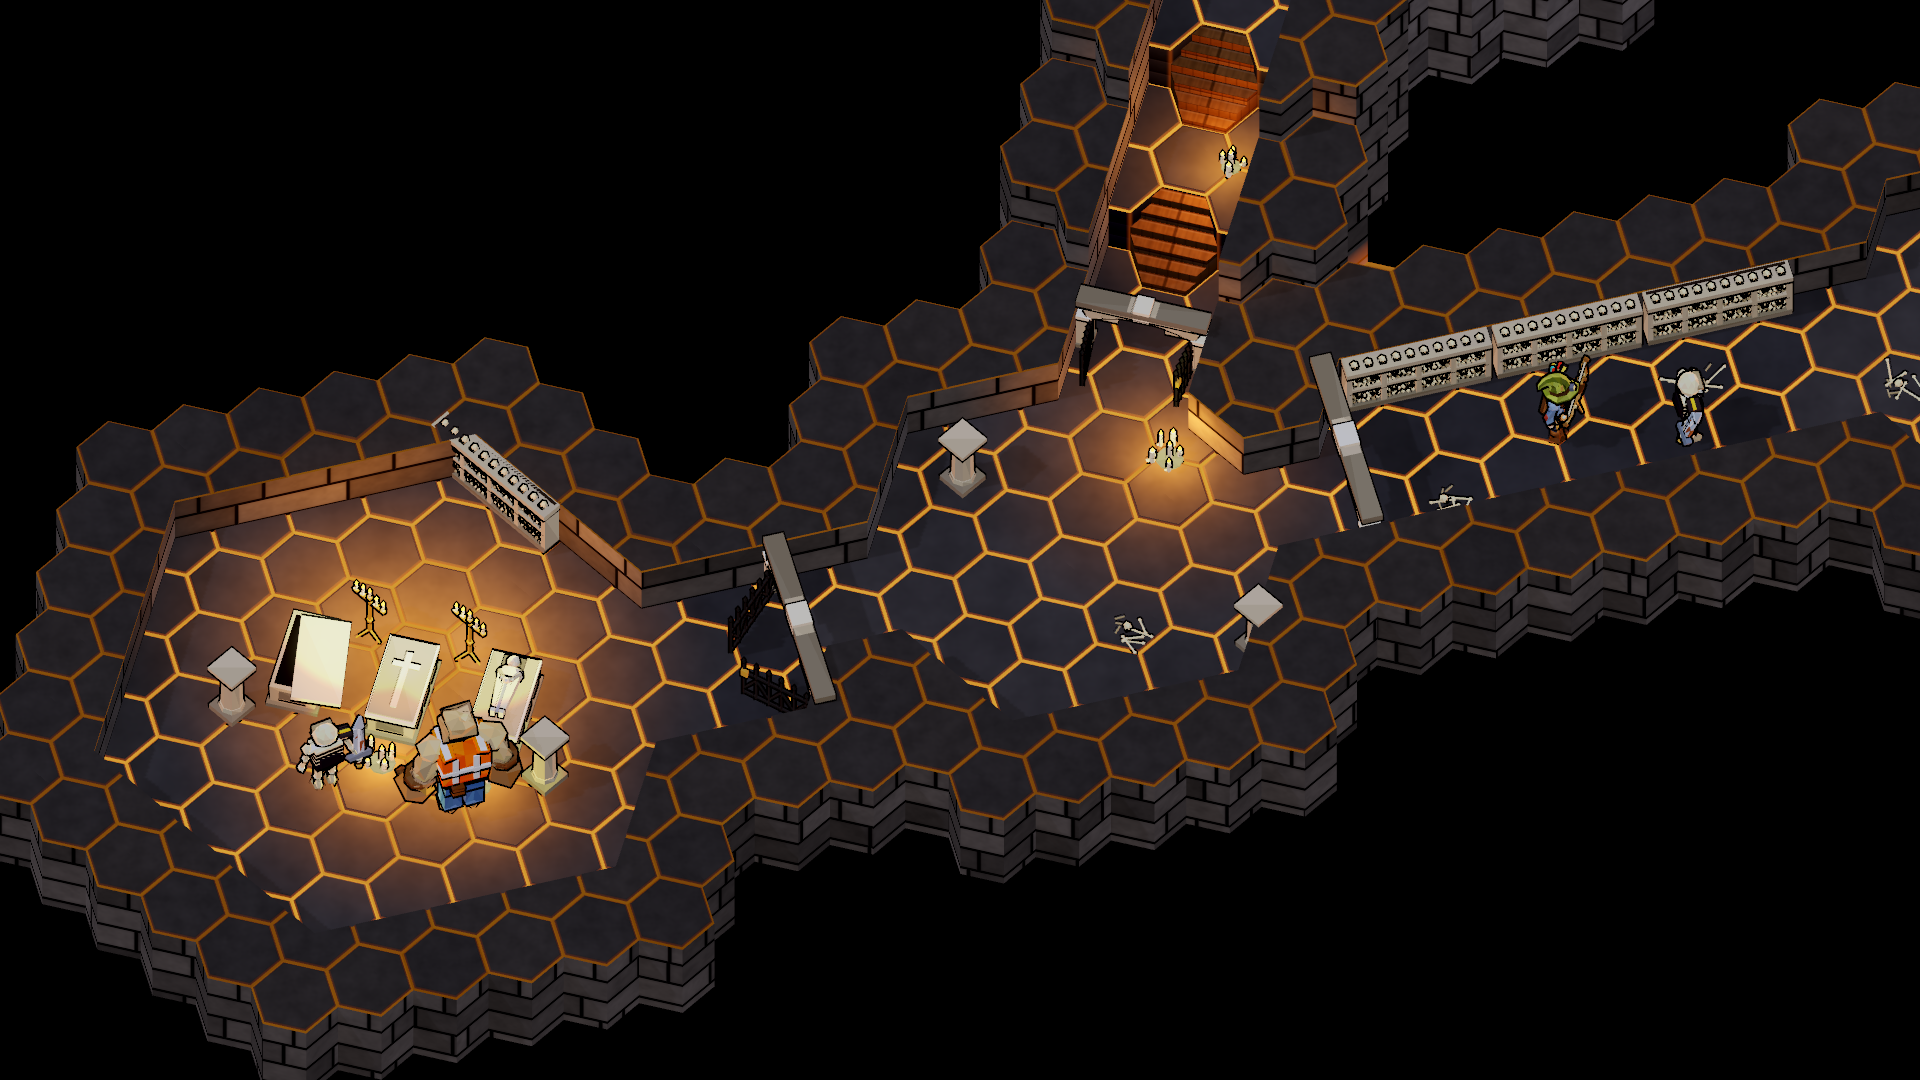
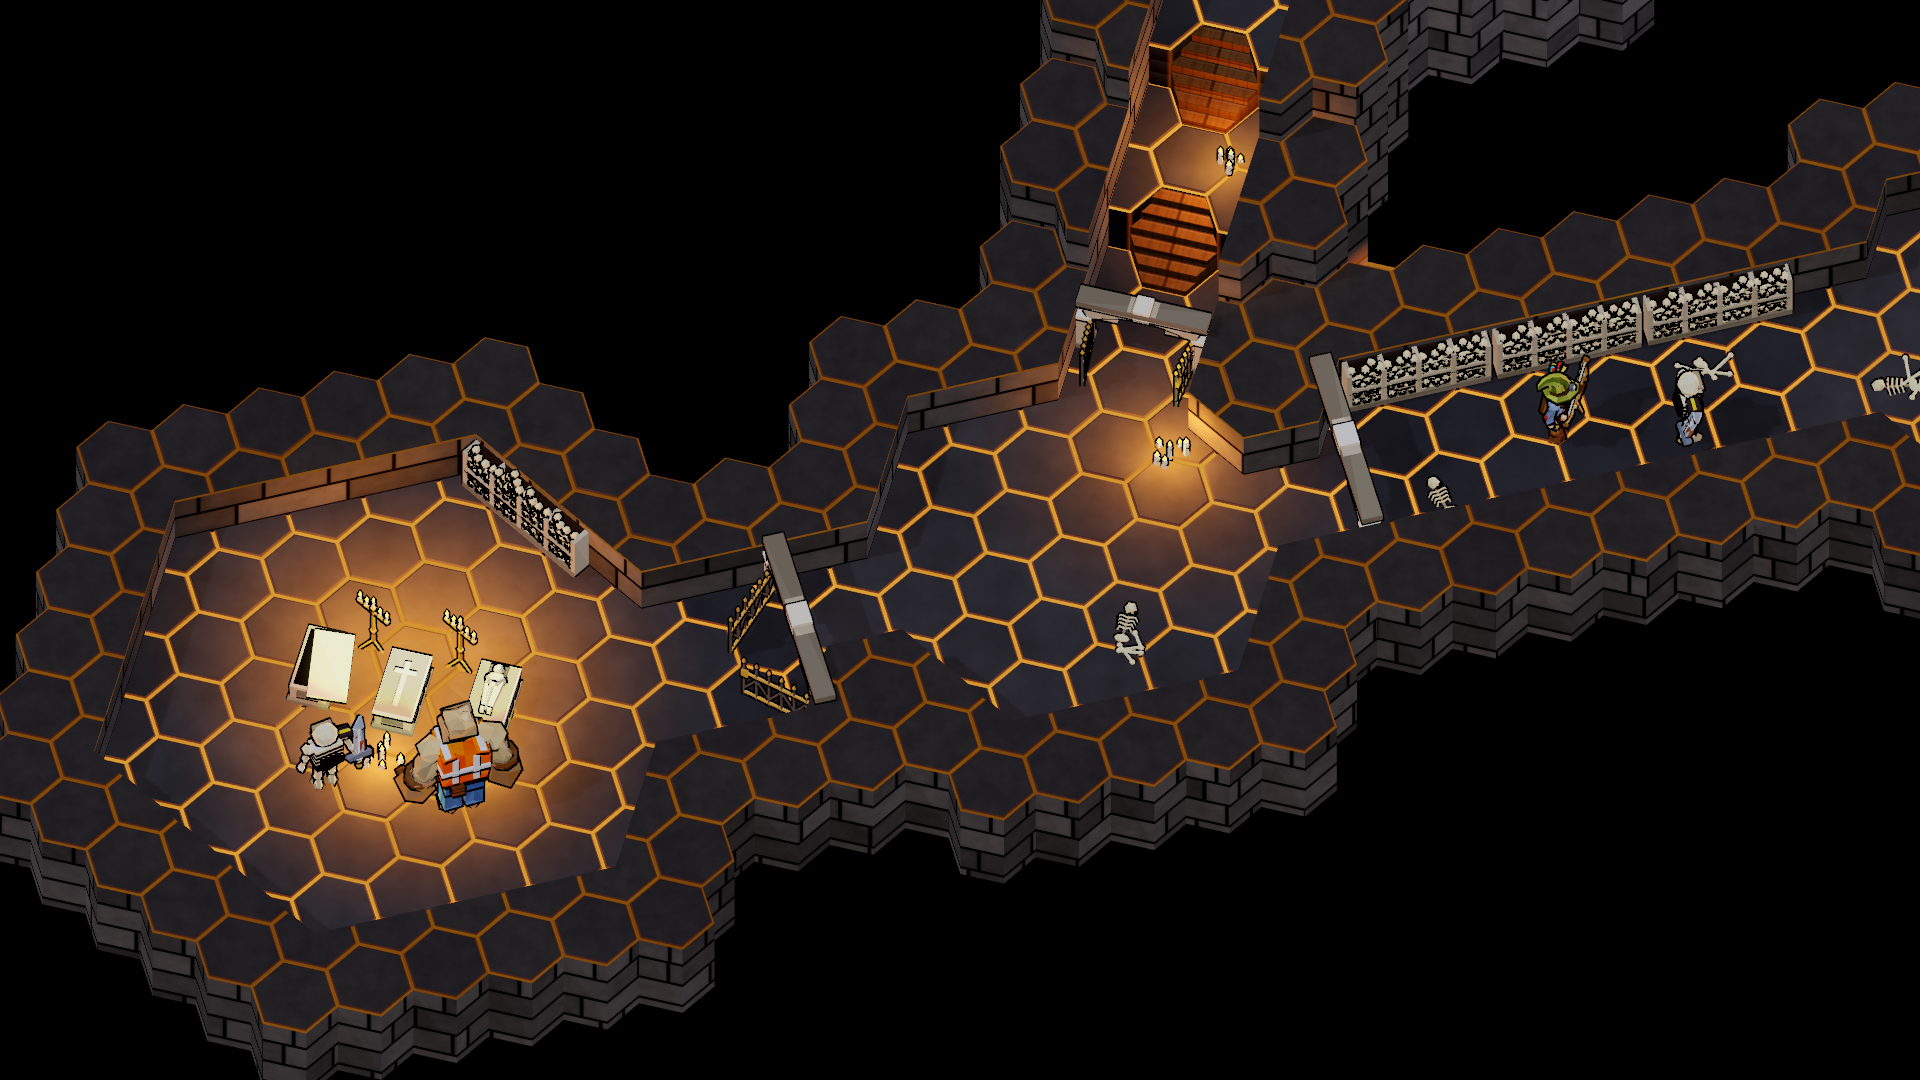
Crypt kit: the user's notes (smaller sarcophagus, open-top stacked ossuary, lighter gates, plain candles, no pillar, a fallen skeleton); wall pieces on a straight run

diff --git a/docs/design/crypt-section.md b/docs/design/crypt-section.md
@@ -18,9 +18,9 @@ walls of skulls and bones, iron gates and candles, and how the crypt meets the f
 | **The way down** | as shown | A stone arch in a wall of the room above, a narrow stair hall going down 6 levels (3.0) in two flights with a candle-lit landing, and an iron gate at its foot into the first crypt room |
 | **Light** | as shown | The crypt has no daylight. Its bright parts are candle light only. The dark parts get only a dim, cool ambient |
 
-The kit is the same in both sets: sarcophagi (effigy, cross or pushed-open lid), an ossuary wall (niches packed with long
-bones, a skull on each stack and a skull frieze along the top), an iron bar gate in a stone arch (shut, half open or open),
-a plain stone arch, floor candles, a standing candelabra, a squat pillar and a scatter of bones. The church above also has
+The kit is the same in both sets: sarcophagi (effigy, cross or pushed-open lid), an ossuary wall (niches packed with
+bands of long bones between rows of skulls, its top open with skulls heaped on it), an iron bar gate in a stone arch
+(shut, half open or open), a plain stone arch, floor candles, a standing candelabra and a fallen skeleton. The church above also has
 pews and an altar.
 
 ## The sheets
@@ -34,7 +34,7 @@ The layout is the same in both sets:
 - the stair hall, coming down toward the camera;
 - the **entry vault** at the foot of the stairs;
 - to the left, through a half-open gate, the **burial chamber**: candle-lit, with three sarcophagi, two candelabras, floor
-  candles, two pillars and an ossuary wall;
+  candles and an ossuary wall;
 - to the right, through an arch, the **ossuary gallery**: unlit, with ossuary walls down its far side;
 - at the far end of the gallery, the **end vault**: unlit, with an opened sarcophagus.
 
@@ -101,7 +101,7 @@ seeds, and the gym's spawns draw theirs from `GameWorld.fx_rng`.
 
 | Piece | Where | What |
 |---|---|---|
-| `CryptProps` | `scripts/art/lowpoly/crypt/crypt_props.gd` | The kit, in the house look (LowPoly soups, `MonsterMaterial`: ink outline, emissive flames). `build(kind, {set, ...})`: sarcophagus (`lid`: effigy / cross / ajar), ossuary (`width`, `height`; its back on a wall face), gate (`width`, `open`), arch, candles (`count`, `radius`, `seed`, `lit`, `light`), candelabra, pillar, bones, pew, altar. A lit piece carries an `OmniLight3D` named "CandleLight" (warm, short range, no shadow). Everything is in the group `crypt_look`. |
+| `CryptProps` | `scripts/art/lowpoly/crypt/crypt_props.gd` | The kit, in the house look (LowPoly soups, `MonsterMaterial`: ink outline, emissive flames). `build(kind, {set, ...})`: sarcophagus (`lid`: effigy / cross / ajar), ossuary (`width`, `height`; its back on a wall face), gate (`width`, `open`), arch, candles (`count`, `radius`, `seed`, `lit`, `light`), candelabra, bones, pew, altar. A lit piece carries an `OmniLight3D` named "CandleLight" (warm, short range, no shadow). Everything is in the group `crypt_look`. |
 | `CryptLook` | `scripts/art/lowpoly/crypt/crypt_look.gd` | The two sets. `restyle(terrain, set)` gives one terrain its own copy of the material tables with the crypt's rows recoloured: `F_FLAGSTONE` (rooms), `F_CORR_STONE` (halls), `W_STONE` (walls), and for the chapel `W_CONCRETE` (the church's walls) and `F_MARBLE` (the church's floor). The shared `FloorMaterials` table is untouched. `relight(parent, set)` cuts `DungeonLook`'s key and fill to almost nothing and sets a dim, cool ambient. `downlight` is a warm pool for the room above. |
 | The lab | `scripts/art/lowpoly/crypt/crypt_section_lab.gd`, `scenes/crypt_section_lab.tscn` | Builds the section (rooms and halls cut the way `DungeonGen` cuts them, the room above 6 levels up, two `STAIRS` cells, walls 3 levels over the highest floor beside them) in each set, dresses it and renders the sheets above. A display room off to the side holds the close-up pieces. |
 | The gym | `GymSpawns` group `haunt` (**Haunting (look test)**) | "crypt: sarcophagus", "crypt: ossuary", "crypt: gate" and "crypt: candles" (lit) put a vault-set piece down. An ossuary within 3 of a wall backs onto it. There is no live crypt room in the gym: a whole section on the gym's map would be a big build, and the lab shows it. |
@@ -132,7 +132,7 @@ This writes every PNG above next to `--shot`. `--set` renders only that set's tw
   wherever the generator likes.
 - **Candle light is the only light** in the crypt. The key light is almost off, because its wall shadows made the floors
   darker than the wall tops. That makes the dark parts flat and cool rather than shadowed.
-- **The walls are the game's height** (3 levels, 1.5), so the ossuary walls (1.45 plus a skull frieze) fill a wall face and
+- **The walls are the game's height** (3 levels, 1.5), so the ossuary walls (1.45 plus the skull heap) fill a wall face and
   the arches (1.78) stand a little above it.
 - **Gates**: the stair's gate is open, the chamber's half open. A shut gate would be the natural "locked crypt" beat, but it
   needs a design (a key, a lever, a shove).
@@ -140,3 +140,27 @@ This writes every PNG above next to `--shot`. `--set` renders only that set's tw
   something having got out.
 - **The church above** is pale marble with pews and an altar. The mansion above is the game's wood boards and panelling,
   with today's statue and crystal lamp. A suit of armour stands in the room's far corner, just out of the frame.
+
+## The user's read (2026-10-29)
+
+The kit, first pass. The user: "The sarcophogus should be a little smaller. It just takes too much of the room. The
+ossuary - remove the top shelf and randomize the placement a bit more. The gates, they read _very_ dark when lit in the
+scene. Anything we can do? The floor candles, the wax spill doesn't read, just leave the candles. The pillar doesn't add
+anything. The bones are a little weak."
+- **Sarcophagus** at 0.8 of its size (`CryptProps.SARC_SCALE`); the chamber's three moved closer together.
+- **Gates** in worn iron (`gate`, `gate_hi` in the palette): mid-grey bars, lighter rails and finials (brass finials in
+  the chapel), the bars a little thicker.
+- **Candles** without the wax spill.
+- **Pillar** gone from the kit and the section.
+- **Bones**: a fallen skeleton (a bigger skull, a ribcage on a spine, a pelvis, thick long bones with fat knobs) instead of
+  a thin scatter.
+- **Ossuary**: the user also showed one placed across a wall's corner, half in the wall. A wall piece now goes on the
+  nearest straight run of wall, centred on it and no wider than it (`_wall_run` in the lab).
+  Then on the top: "I meant leave the top open. It can have a pile of skulls on it. Just no top board." And on the
+  heap: "that is randomly in the air, not on the shelf. They should be laying on top of one another. The little dots
+  also don't sell as skulls." So the niches are stacked the way a charnel house stacks them: bands of long bones laid
+  lengthwise between rows of skulls facing out. The open top has a row of skulls on the stack, more lying in the dips
+  between them, and now and then one more on those.
+
+The two sets: "I want both a vault and chapel, but they are too similar to eachother." Open: how to set them apart.
+
